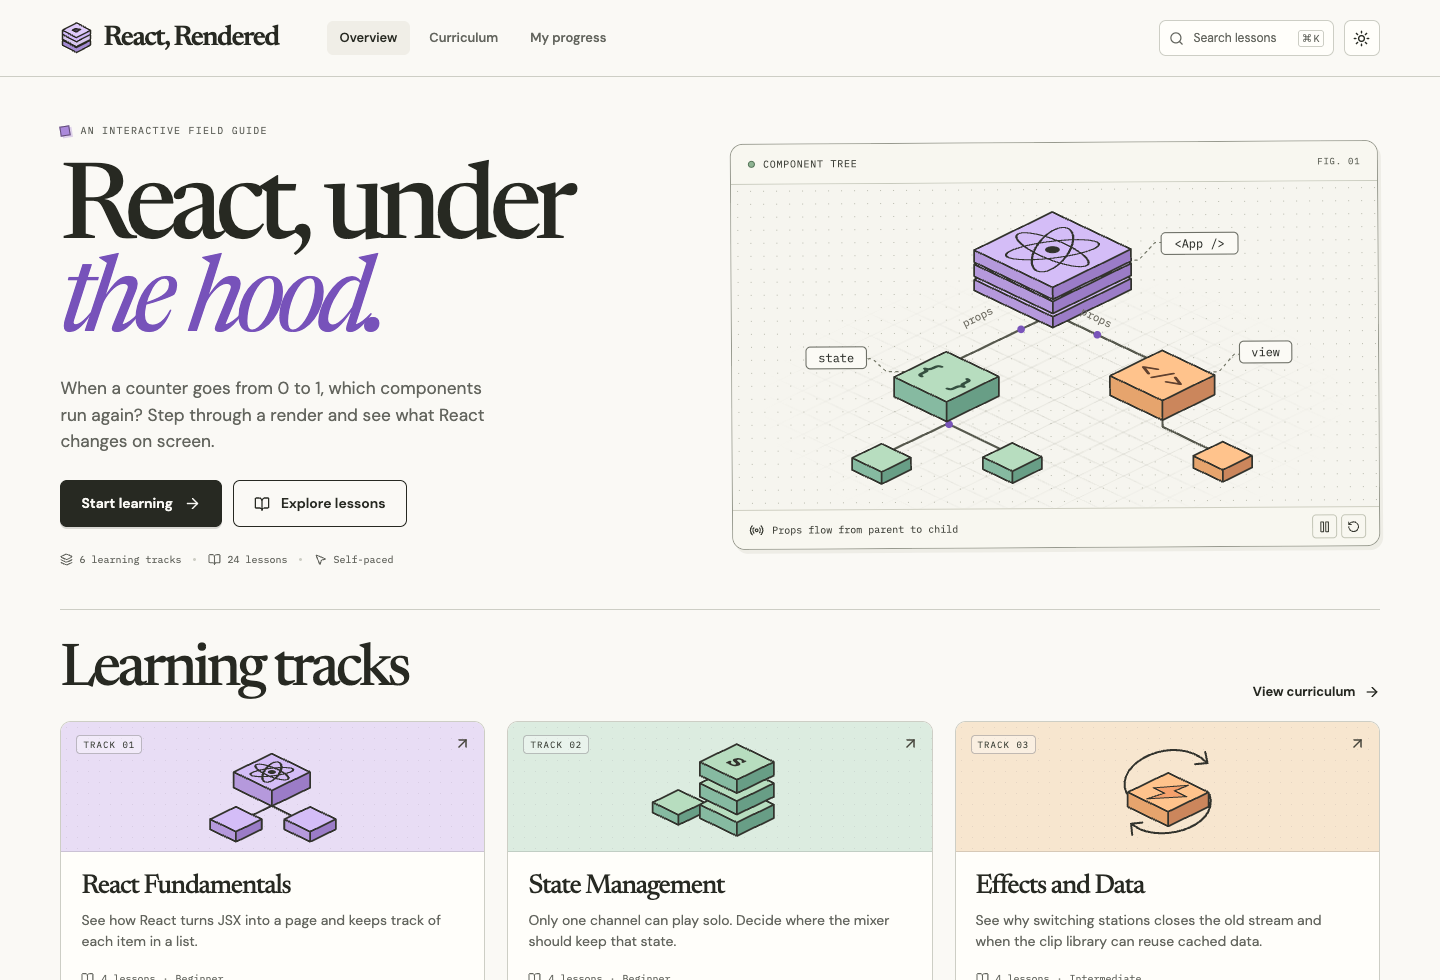
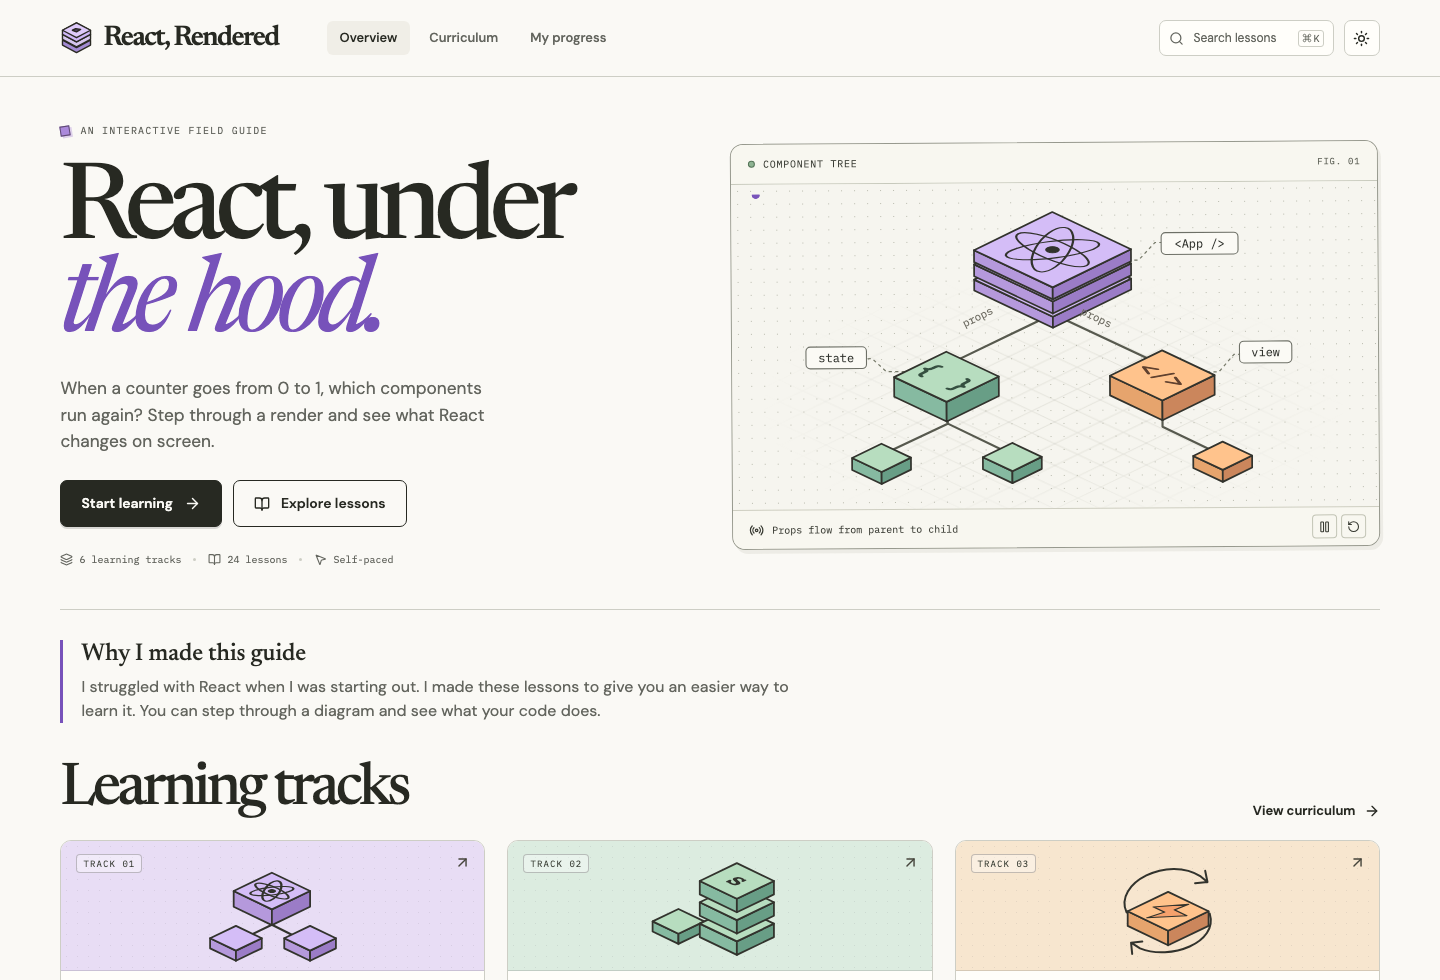
docs: share why the guide exists and how to run it

Changed region(s): [[0.0312, 0.6429, 0.9688, 1.0], [0.4688, 0.6735, 0.5312, 0.7041], [0.6875, 0.2755, 0.7188, 0.3061]]

diff --git a/apps/web/src/features/home/Home.tsx b/apps/web/src/features/home/Home.tsx
@@ -80,6 +80,13 @@ export default function Home() {
         </div>
         <RenderFigure />
       </section>
+      <aside className="author-note" aria-labelledby="author-note-title">
+        <h2 id="author-note-title">Why I made this guide</h2>
+        <p>
+          I struggled with React when I was starting out. I made these lessons to give you an easier
+          way to learn it. You can step through a diagram and see what your code does.
+        </p>
+      </aside>
       <section className="track-section">
         <div className="section-head">
           <h2>Learning tracks</h2>

diff --git a/apps/web/src/features/home/home.css b/apps/web/src/features/home/home.css
@@ -9,6 +9,19 @@
 .hero-copy {
   min-width: 0;
 }
+.author-note {
+  margin: 30px 0 6px;
+  padding-left: 18px;
+  border-left: 3px solid var(--purple);
+}
+.author-note h2 {
+  font: 500 24px/1.2 var(--serif);
+}
+.author-note p {
+  max-width: 68ch;
+  margin-top: 6px;
+  color: var(--muted);
+}
 .field-label {
   font-weight: 600;
   letter-spacing: 0.13em;

diff --git a/README.md b/README.md
@@ -5,6 +5,21 @@
 <p align="center"><img src="docs/stack.svg" alt="React · TypeScript · Motion · Hono · SQLite" width="440"></p>
 <p align="center"><a href="#run-it-locally">Quick start</a> · <a href="#inside-the-course">Curriculum</a> · <a href="docs/operations.md">API and deployment</a> · <a href="docs/contributing.md">Contribute</a></p>
 
+## Run it locally
+
+Use Node.js 24. If you need pnpm, install the version pinned in this repository with `npm install --global pnpm@10.32.1`.
+
+Open a terminal in the repository root (the folder containing `pnpm-workspace.yaml`) and run these commands.
+
+```sh
+pnpm install --frozen-lockfile
+pnpm dev
+```
+
+**Open [http://127.0.0.1:5177](http://127.0.0.1:5177) in your browser.** Leave the terminal running while you use the course. Vite forwards API requests to Hono on port 3001. Hono creates `apps/api/data/learning.sqlite`, applies migrations, and loads the curriculum automatically.
+
+Press **Ctrl+C** in the terminal to stop both servers. Run `pnpm dev` again to pick up where you left off.
+
 ![The lesson player showing the Player component, its title and play counter, and the code that connects them.](screenshots/lesson.png)
 
 ## What changes when you click?
@@ -12,17 +27,6 @@
 A counter goes from zero to one. React calls a component, compares its output, and updates a text node. The button you clicked can stay right where it was. The opening lesson takes that single interaction apart on screen.
 
 The course follows examples from an audio editor. Switch stations to watch an effect clean up its old connection. Reorder clips to see which draft follows its key. Toggle memoization and compare render calls. Each lesson pairs an animated scene with a short code excerpt and ends with a question you can answer from the diagram.
-
-## Run it locally
-
-Use Node.js 24 and pnpm 10.32.1. From the repository root, run:
-
-```sh
-pnpm install --frozen-lockfile
-pnpm dev
-```
-
-Open [the local field guide](http://127.0.0.1:5177). Vite serves the interface on port 5177 and forwards API requests to Hono on port 3001. The first startup creates the local SQLite database, runs migrations, and seeds the curriculum.
 
 ## Inside the course
 
